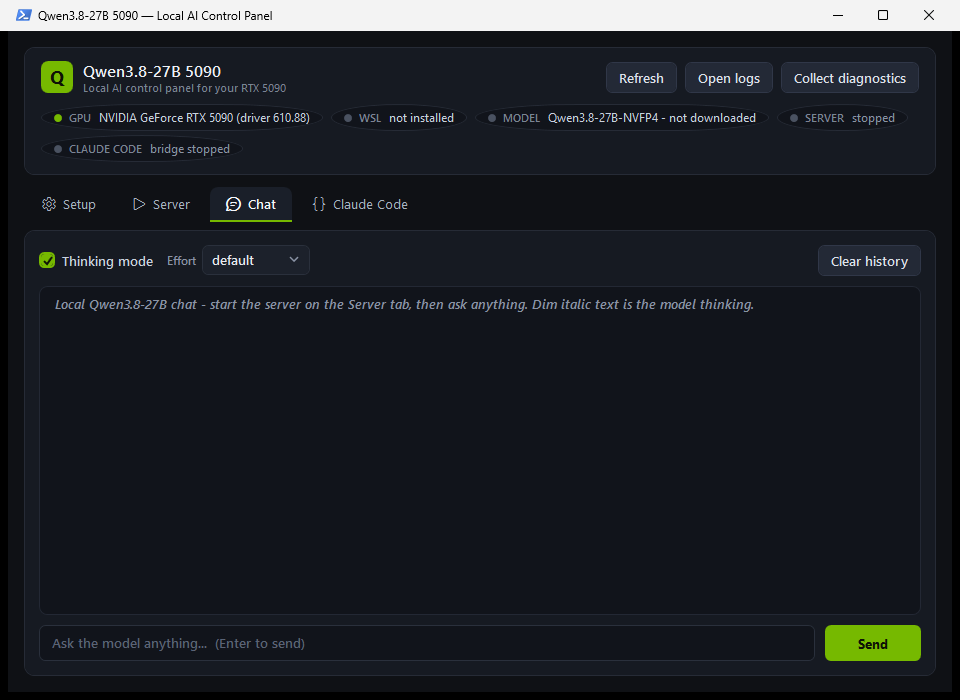
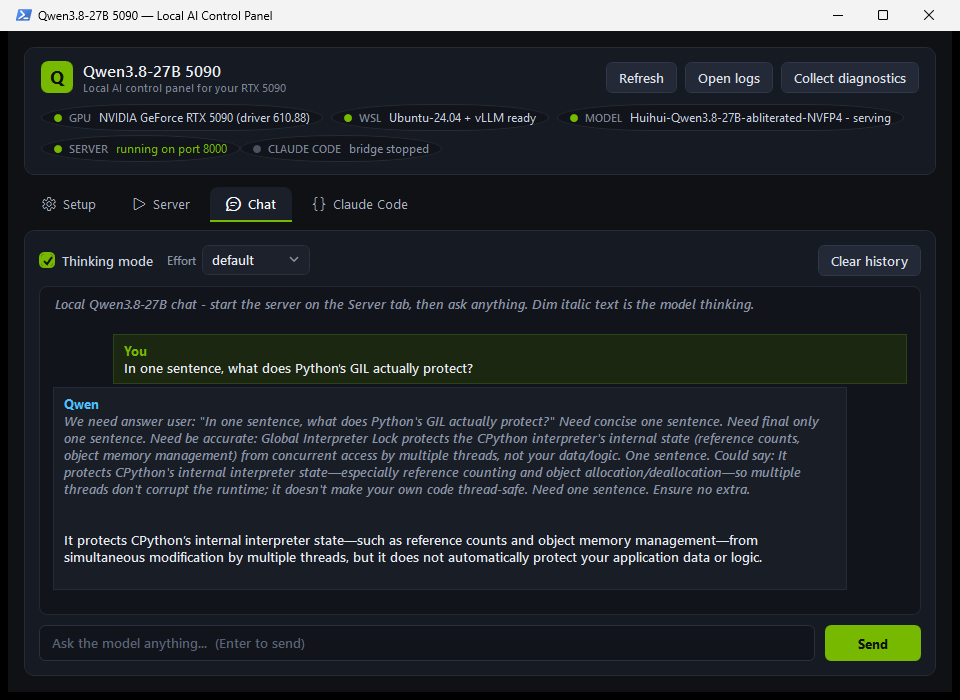
docs: recapture the Server and Chat screenshots against a live server
The first pair was taken on a machine that had just been through Cleanup,
so both showed an idle app: an empty log box and an empty transcript.
Reinstalled (distro, venv, and the abliterated checkpoint) and drove the
real GUI instead.

Server now shows the green SERVER pill, Stop enabled, and vLLM's own
startup output ending in "Server is READY". Chat shows a real question
and reply with the reasoning rendered dim above the answer - which is the
feature the README bullet describes and the old shot could not show.

Both come from one session with the pills consistent: MODEL reads
"- serving" rather than "- downloaded", which needs a Refresh *after* the
GUI's health ping flips ServerUp, since Update-Status does not re-run on
its own when the pill turns green.

Driving the app needed real input: UIA reaches the tab headers and the
header-bar buttons, but not TabItem content, and posted WM_LBUTTONDOWN /
WM_CHAR do not reach WPF content either - so clicks and typing go through
the real input queue. Setup keeps its first-run capture on purpose.

diff --git a/README.md b/README.md
@@ -102,12 +102,12 @@ Two things worth being straight about:
 
 <table>
 <tr>
-<td width="50%"><img src="app/docs/images/server.png" alt="Server tab: start/stop, port, context and MTP toggles above a live log"></td>
-<td width="50%"><img src="app/docs/images/chat.png" alt="Chat tab: thinking mode and effort dial above the transcript"></td>
+<td width="50%"><img src="app/docs/images/server.png" alt="Server tab: the green SERVER pill reads running on port 8000, with vLLM startup output ending in Server is READY"></td>
+<td width="50%"><img src="app/docs/images/chat.png" alt="Chat tab: a question and the model's reply, with its reasoning shown above the answer in dim italic"></td>
 </tr>
 <tr>
-<td align="center"><em>Server tab — start it, watch it load, share it.</em></td>
-<td align="center"><em>Chat tab — thinking mode and the effort dial.</em></td>
+<td align="center"><em>Server tab — one click, then watch it come up.</em></td>
+<td align="center"><em>Chat tab — the model's thinking renders dim above its answer.</em></td>
 </tr>
 </table>
 
